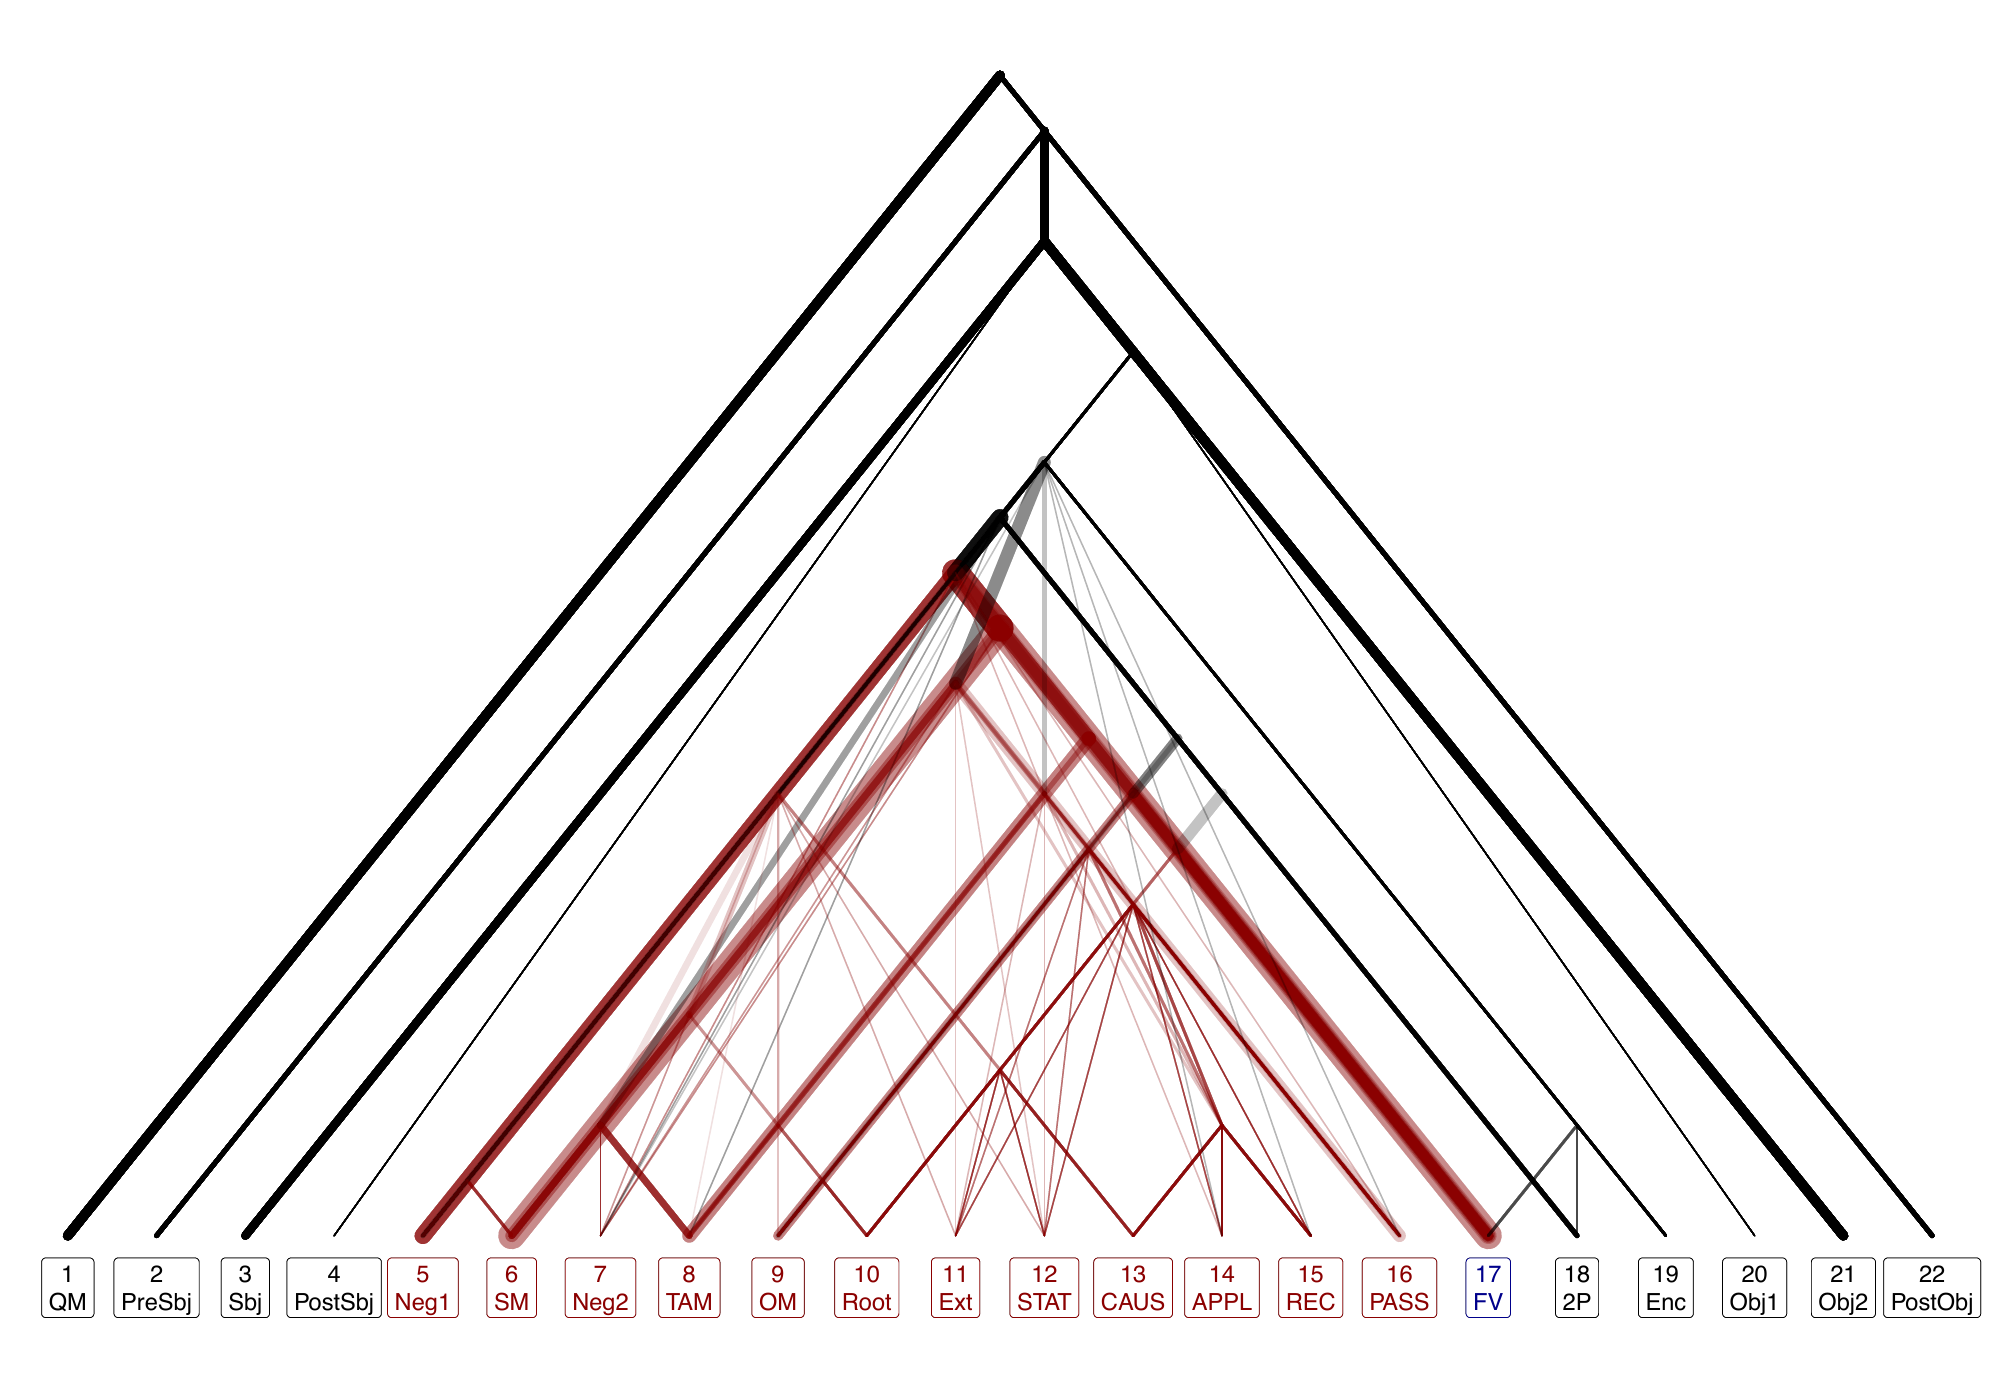
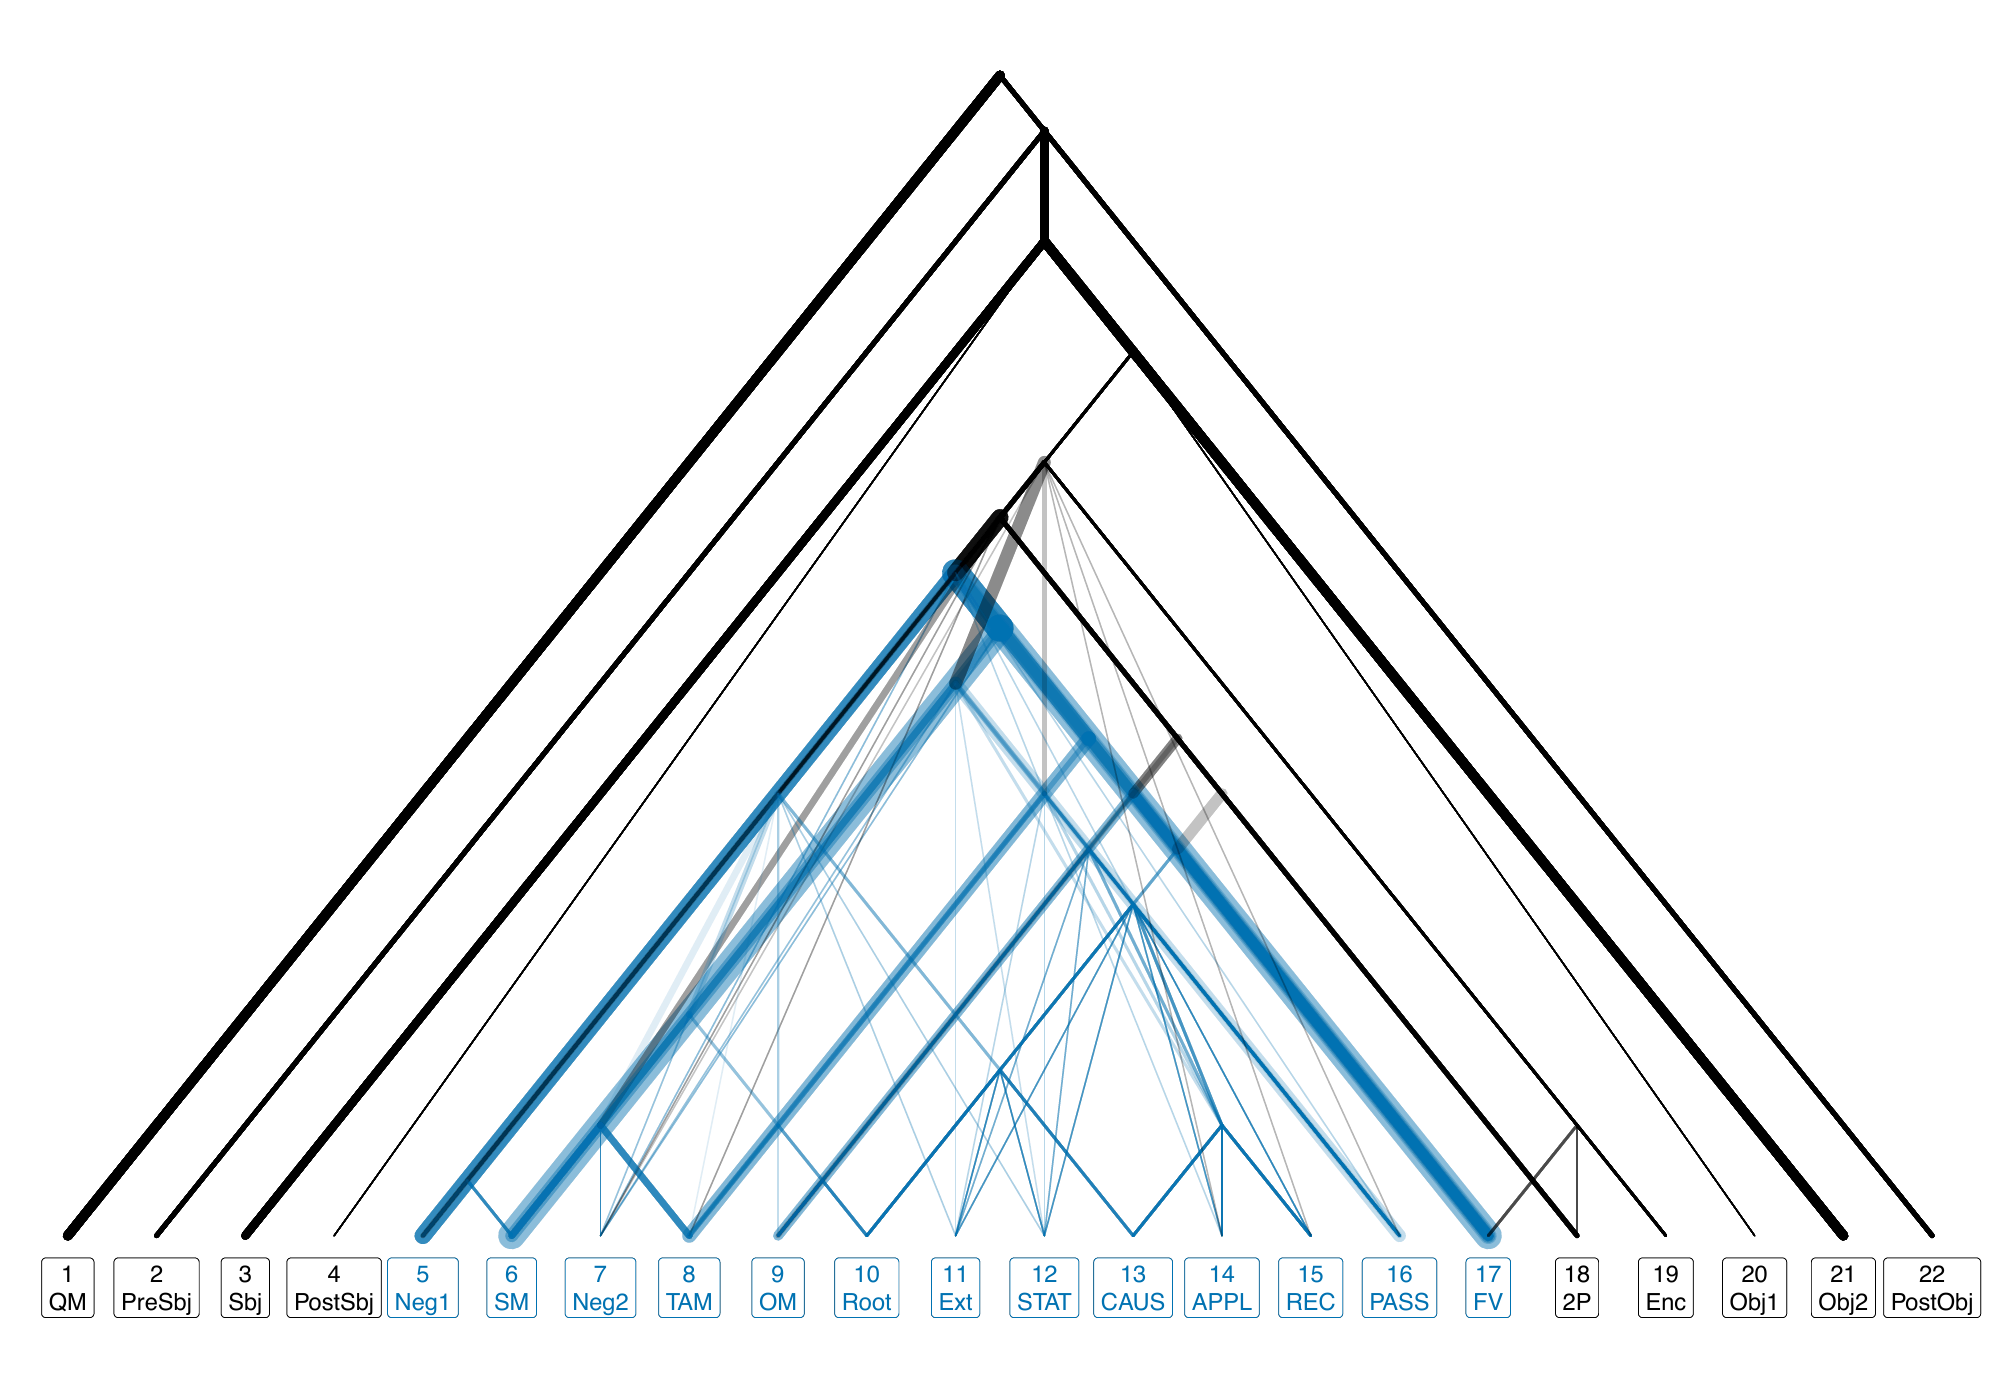
Slide figures: inner word blue, orthographic shield dark red (colour-blind safe)

Changed region(s): [[0.186, 0.3993, 0.775, 0.9521], [0.186, 0.9214, 0.217, 0.9521]]

diff --git a/NonCollaborative/results/visualizations.md b/NonCollaborative/results/visualizations.md
@@ -1279,15 +1279,15 @@ share its 7 two-way nodes, and family_032 also ties on test support.
 
 **What it shows:** a dissolve sequence on `nyan1308_all_families_labeled` (every
 family stacked). `_2_annotated` marks a possible word domain from Neg1 (5)
-to FV (17): in each family, an edge is dark red when both its node and that
+to FV (17): in each family, an edge is blue (`#0072B2`) when both its node and that
 node's parent lie within 5–17 — every line below the 5–17 node, in the 37 of
 69 families that have it; in the other 32, only their structure wholly
 inside 5–17, so the grey lines that remain inside the domain are those
-families'. Labels 5–16 dark red, FV dark blue. `_3_shield` adds the
-orthographic word's extension to 19 in blue: edges inside 5–19 not already
-red (the lines from the 5–19 and 5–18 nodes down, and so also the 32
-families' inner structure that was grey), labels 5–17 dark red and 18–19
-blue. Same canvas as the package
+families'. Labels 5–17 blue. `_3_shield` adds the orthographic word's
+extension to 19 in dark red (`#A50F15`): edges inside 5–19 not already blue
+(the lines from the 5–19 and 5–18 nodes down, and so also the 32 families'
+inner structure that was grey), labels 18–19 dark red. The pair stays
+distinct under simulated protan-, deutan- and tritanopia. Same canvas as the package
 chart (20 × 14 in); the plain one matches it except for hairline differences
 on the label boxes, so dissolve between this pair rather than from the
 package chart.

diff --git a/NonCollaborative/scripts/INDEX.md b/NonCollaborative/scripts/INDEX.md
@@ -118,10 +118,11 @@ option instead.
 **`slides/nyan1308_all_families_word_5_17.R`**
 - **Purpose**: the combined constituency forest (`all_families_labeled`),
   plain and annotated with a possible word domain 5–17: in each stacked
-  family, edges lying inside 5–17 in dark red (below the 5–17 node, where
-  the family has one: 37 of 69), labels 5–16 dark red, FV (17) dark blue;
-  then a third slide adding the orthographic word's extension as a blue
-  "shield": edges inside 5–19 not already red, labels 18–19 blue (FV red).
+  family, edges lying inside 5–17 in blue (below the 5–17 node, where the
+  family has one: 37 of 69), labels 5–17 blue; then a third slide adding
+  the orthographic word's extension as a dark red "shield": edges inside
+  5–19 not already blue, labels 18–19 dark red. Colours checked for
+  colour-blind readers (see the script's header).
   Pixel-aligned slides for dissolves. The package chart's own 20 × 14 in canvas.
 - **Run**: `Rscript NonCollaborative/scripts/slides/nyan1308_all_families_word_5_17.R`
 
